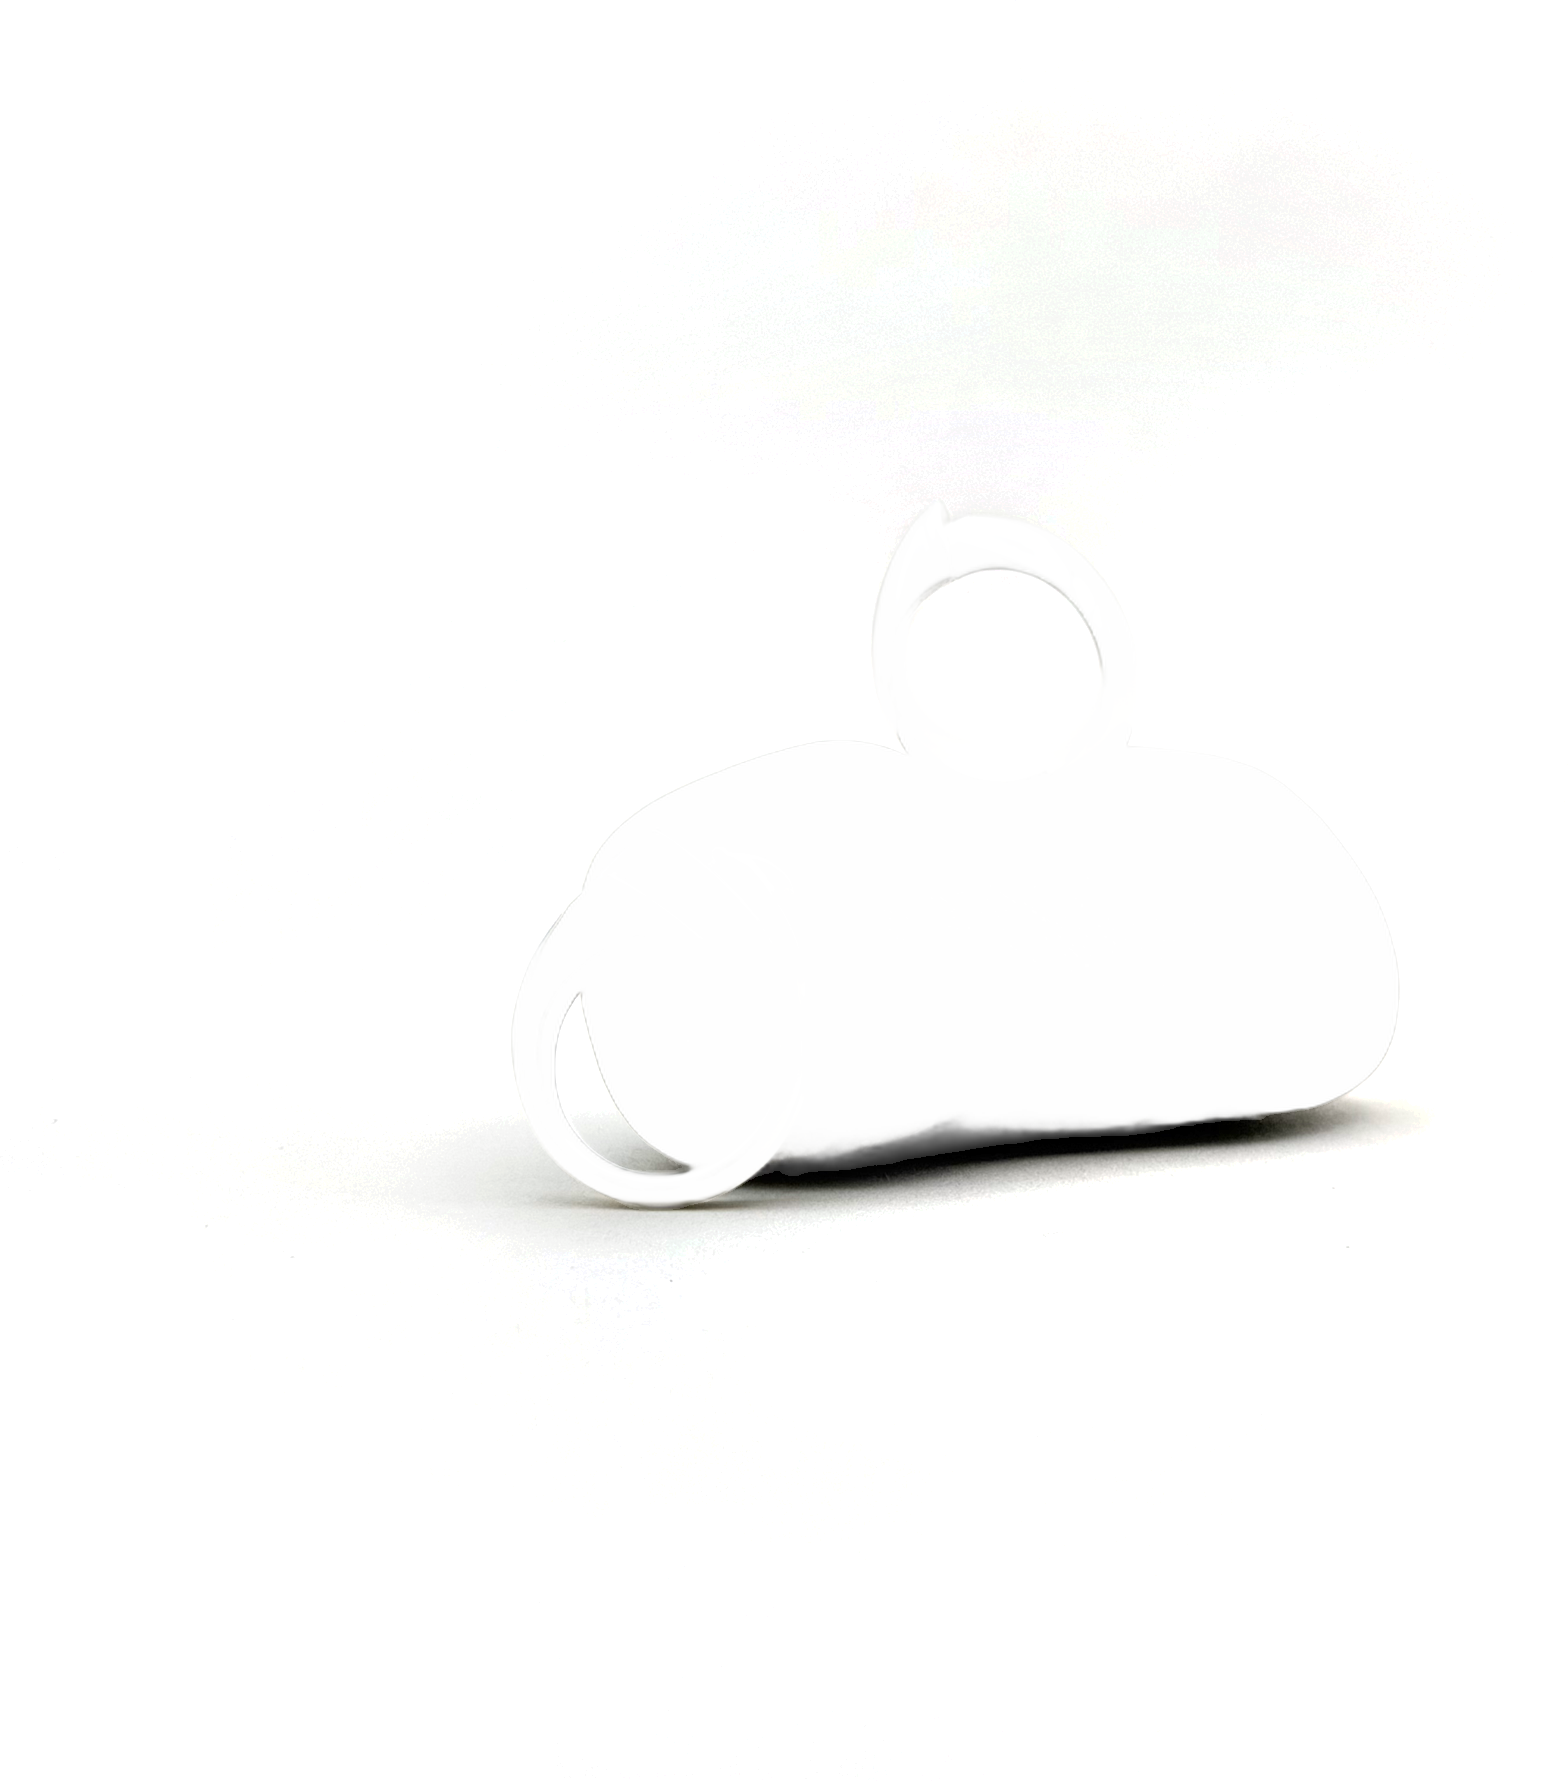
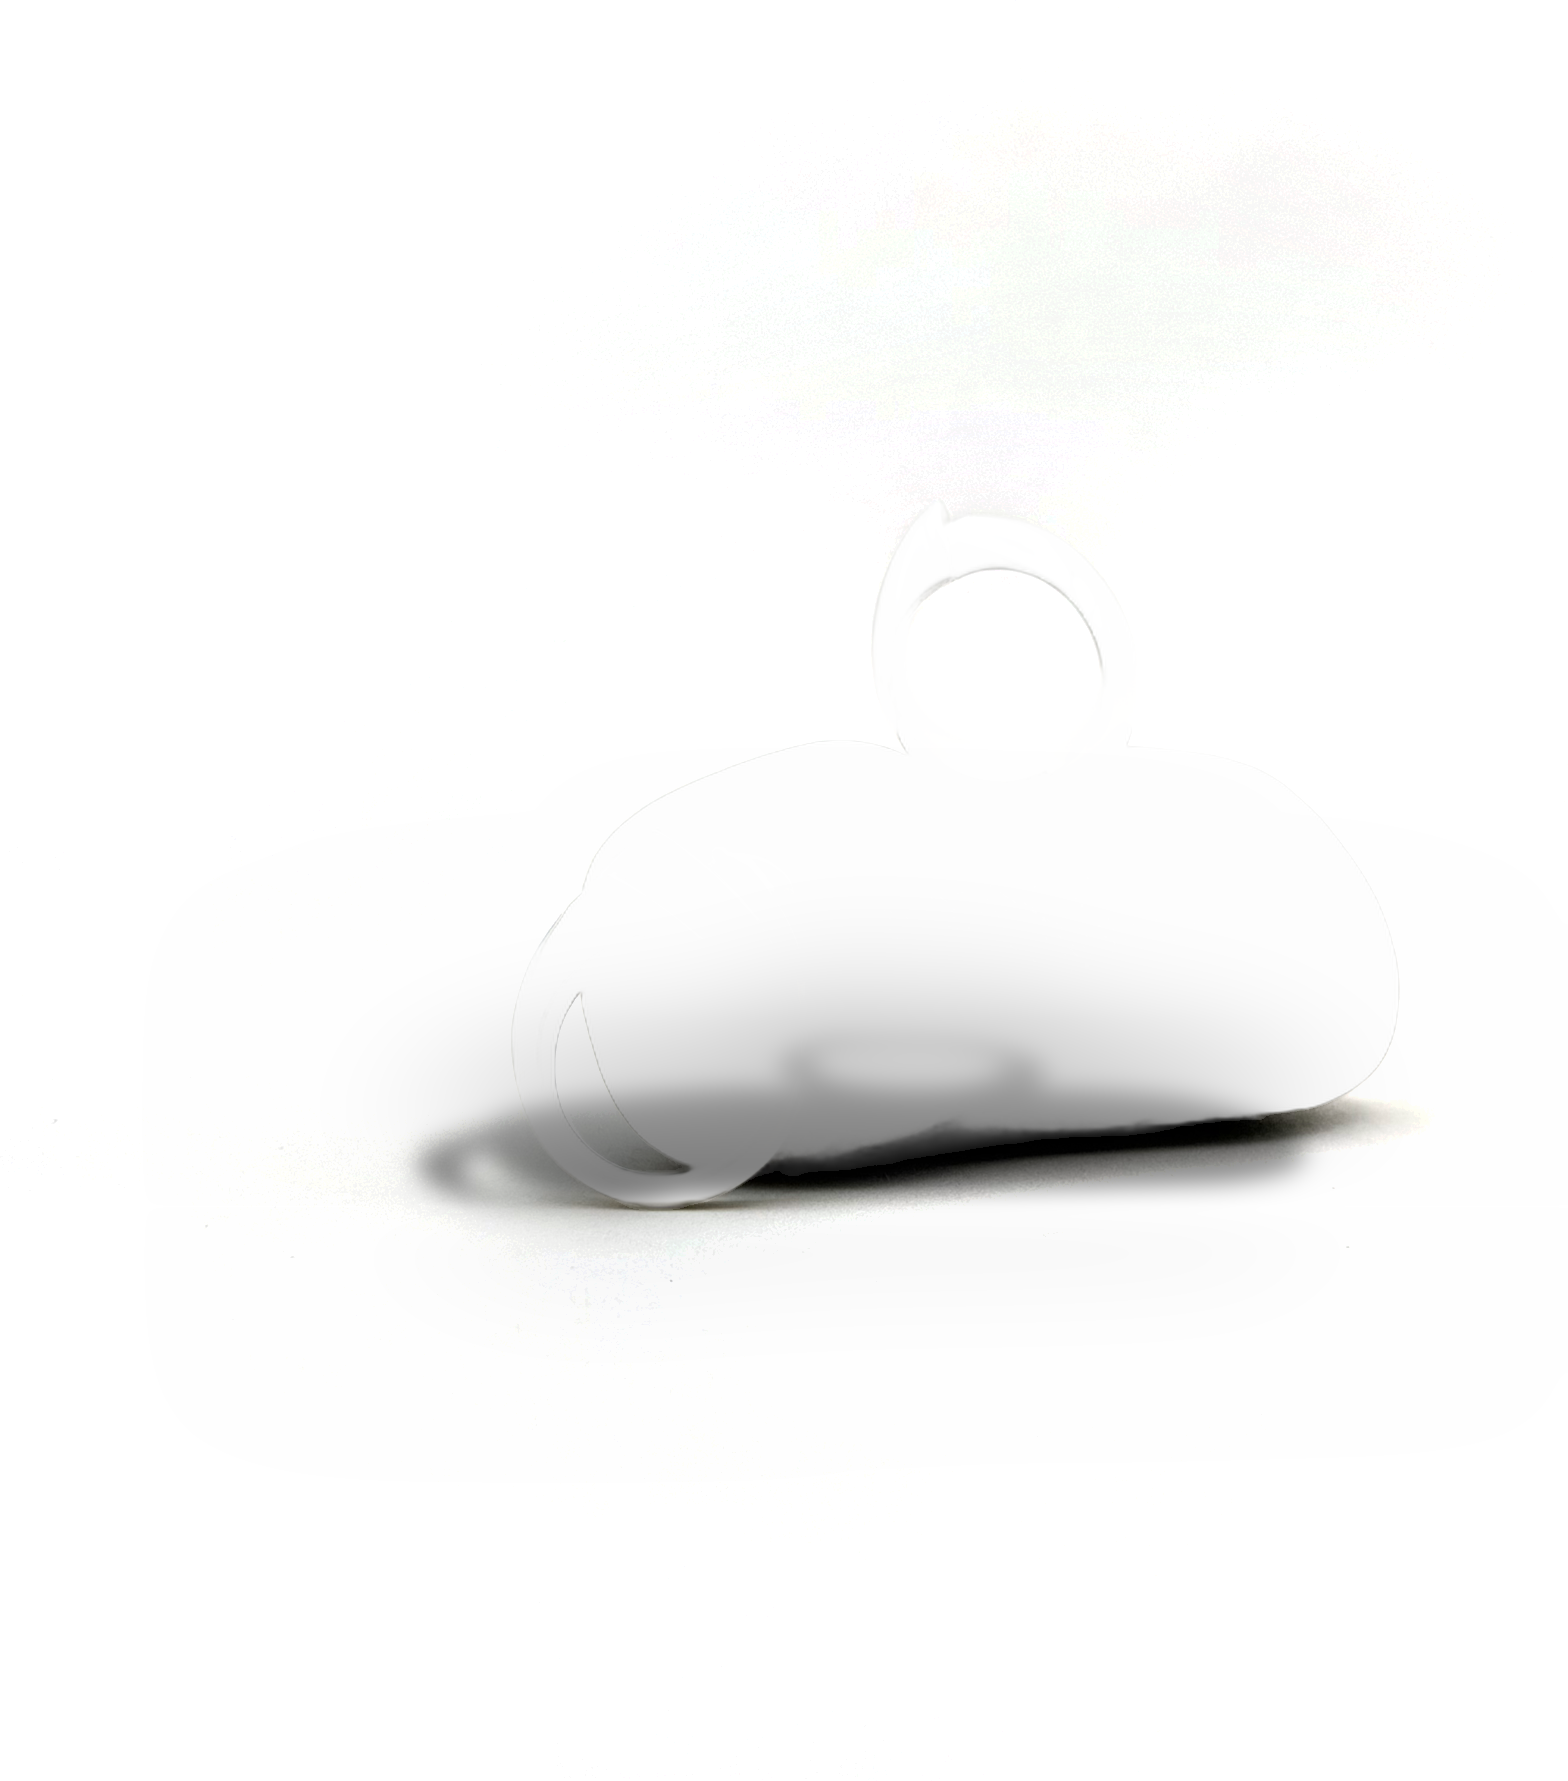
Paint a contact shadow under the dark stone, where the measurement failed

Changed region(s): [[0.25, 0.5559, 0.8438, 0.6794]]

diff --git a/shelf/tools/paint_contact_shadow.py b/shelf/tools/paint_contact_shadow.py
@@ -1,0 +1,73 @@
+#!/usr/bin/env python3
+"""Paint a contact shadow into one cutout's transmission map.
+
+Only for photographs where the measurement genuinely failed. The background
+estimate in cut_photos.py removes dark things NARROWER than its kernel; a large
+dark subject - a stone - survives into the estimate of the bare paper, so C/L
+comes back at 1 underneath it and the piece lands with no shadow at all.
+
+What is painted here is invented, not measured, so it stays opt-in and per file.
+The shape is the piece's own silhouette flattened onto the ground plane and
+pushed away from the light, which is what a soft overhead source actually casts,
+then blurred with distance from the contact line.
+
+    python3 shelf/tools/paint_contact_shadow.py NAME [--dx -0.06] [--squash 0.26]
+                                                     [--strength 0.55] [--blur 0.02]
+"""
+import argparse, os
+import numpy as np
+import cv2
+from PIL import Image
+
+ROOT = os.path.dirname(os.path.dirname(os.path.dirname(os.path.abspath(__file__))))
+PHOTOS = os.path.join(ROOT, "shelf/photos")
+
+
+def contact(alpha, dx, squash, blur, strength):
+    h, w = alpha.shape
+    a = alpha.astype(np.float32) / 255.0
+    ys = np.nonzero((a > 0.5).any(axis=1))[0]
+    base = float(ys.max())
+
+    # Flatten the silhouette onto the ground: everything above the contact line
+    # collapses toward it, which is the projection a high, soft light makes.
+    M = np.float32([[1, 0, dx * w], [0, squash, base * (1 - squash)]])
+    ground = cv2.warpAffine(a, M, (w, h), flags=cv2.INTER_LINEAR,
+                            borderMode=cv2.BORDER_CONSTANT, borderValue=0)
+    ground[: int(base * 0.2), :] = 0
+
+    # A contact shadow is sharp where the object meets the ground and loosens
+    # with distance, so blur twice and cross-fade by height above the line.
+    s = max(2.0, blur * w)
+    tight = cv2.GaussianBlur(ground, (0, 0), s * 0.4)
+    loose = cv2.GaussianBlur(ground, (0, 0), s * 2.2)
+    yy = np.arange(h, dtype=np.float32)[:, None]
+    near = np.clip(1.0 - np.abs(yy - base) / (s * 6.0), 0, 1)
+    return np.clip((tight * near + loose * (1 - near)) * strength, 0, 1)
+
+
+def main():
+    ap = argparse.ArgumentParser()
+    ap.add_argument("name")
+    ap.add_argument("--dx", type=float, default=-0.06)
+    ap.add_argument("--squash", type=float, default=0.26)
+    ap.add_argument("--blur", type=float, default=0.02)
+    ap.add_argument("--strength", type=float, default=0.55)
+    ap.add_argument("--out")
+    a = ap.parse_args()
+
+    obj = os.path.join(PHOTOS, "object", a.name)
+    shd = os.path.join(PHOTOS, "shadow", a.name)
+    alpha = np.asarray(Image.open(obj).convert("RGBA"))[..., 3]
+    T = np.asarray(Image.open(shd).convert("RGB")).astype(np.float32) / 255.0
+
+    d = contact(alpha, a.dx, a.squash, a.blur, a.strength)
+    # Multiply, never replace: whatever shadow WAS measured stays, and the paint
+    # can only darken. The object covers its own footprint, so no mask is needed.
+    out = np.clip(T * (1.0 - d[..., None]), 0, 1)
+    Image.fromarray((out * 255).astype(np.uint8)).save(a.out or shd)
+    print(f"  {a.name}  painted, max depth {d.max():.2f}")
+
+
+if __name__ == "__main__":
+    main()
